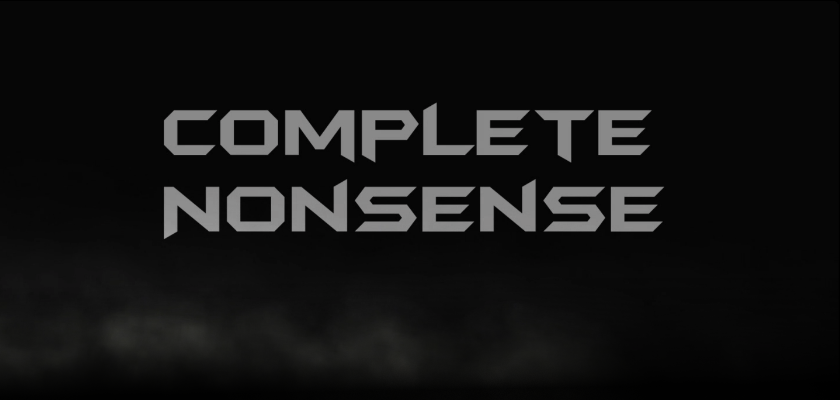
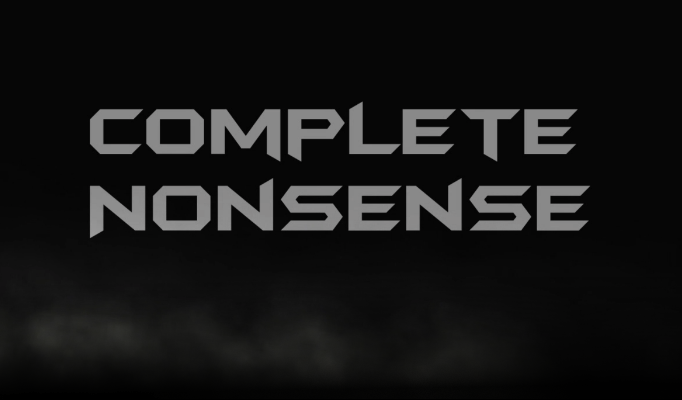
сделал class="container"

Changed region(s): [[0.1232, 0.45, 0.8622, 0.6], [0.1232, 0.24, 0.8622, 0.42]]

diff --git a/index.html b/index.html
@@ -78,7 +78,7 @@
 
 
         <!-- КАРУСЕЛЬ    -->
-        <div class="container-fluid" id="slider">
+        <div class="container" id="slider">
            <div class="col-md-7" id="slider">
                 <div id="myCarousel" class="carousel slide" data-interval="3000" data-ride="carousel">
                   <!-- Индикаторы для карусели -->
@@ -148,7 +148,7 @@
 <!-- КОНЕЦ ХЕДЕРА-->
 
    <container>
-       <div class="container-fluid">
+       <div class="container">
           <div class="row">
 
             <div class="col-md-5" style="background: #1f1f1f; color: #fff;">
@@ -158,10 +158,9 @@
               </div>
             </div>
 
-            <div class="col-md-7" style="background: url(/img/bg_gal.png); 
-    padding: 0;">
-              <div class="cont_right" style="background-color: rgba(222, 222, 222, 0.9);";>
-                <div id="gallery">
+            <div class="col-md-7" style="background: url(/img/bg_gal.png);padding: 0px;">
+              <div class="cont_right" style="background-color: rgba(222, 222, 222, 0.9); padding: 15px;";>
+                <div id="gallery" style="">
                   <img src="/img/slide_1.png" alt="" tabindex="0" />
                   <img src="/img/slide_1.png" alt="" tabindex="0" />
                   <img src="/img/slide_1.png" alt="" tabindex="0" />
@@ -208,16 +207,16 @@
       <div class="container-fluid">
           <div class="row">
 
-            <div class="col-md-12" style="background: #000;">
+            <div class="col-md-12" style="background: #0f0f0f;">
               <div class="footer">
-                  <center>
-                     <img src="/img/logo_cn_studio.png" alt="" class="logo_ch_studio">
-                     <p>Информация:</p>
-                     <p>Группа в<a href="https://vk.com/the_complete_nonsense"> ВК</a></p>
-                     <p style="background-image: url()">Связаться с нами: was.lopatin.one@gmail.com</p>
-                     
-                     <p>© Complete Nonsense</p>
-                  </center>
+                   <center><img src="/img/logo_cn_studio.png" alt="" class="logo_ch_studio"></center>
+                    <div class="in_footer">
+                         
+                         <p>Группа в<a href="https://vk.com/the_complete_nonsense"> ВК</a></p>
+                         <p style="background-image: url()">Связаться с нами: was.lopatin.one@gmail.com</p>
+                    </div>
+                    
+                    <center><p style="padding-top: 40px;">© Complete Nonsense</p></center>
               </div>
             </div>
 

diff --git a/css/style.css b/css/style.css
@@ -1,6 +1,10 @@
-
+body{
+    background-image: url(/img/bg.png);
+    background-attachment: fixed;
+    background-size: 100%
+}
 #menu{
-background: #000;
+background: #0f0f0f;
 }
 #logo{
     background-image: url(/img/logo.png);
@@ -108,6 +112,11 @@ h1{
 .footer{
     height: 250px;
     color: #fff;
+}
+
+.in_footer{
+    padding-top: 10px;
+    padding-left: 40%;
 }
 
 .logo_ch_studio{
